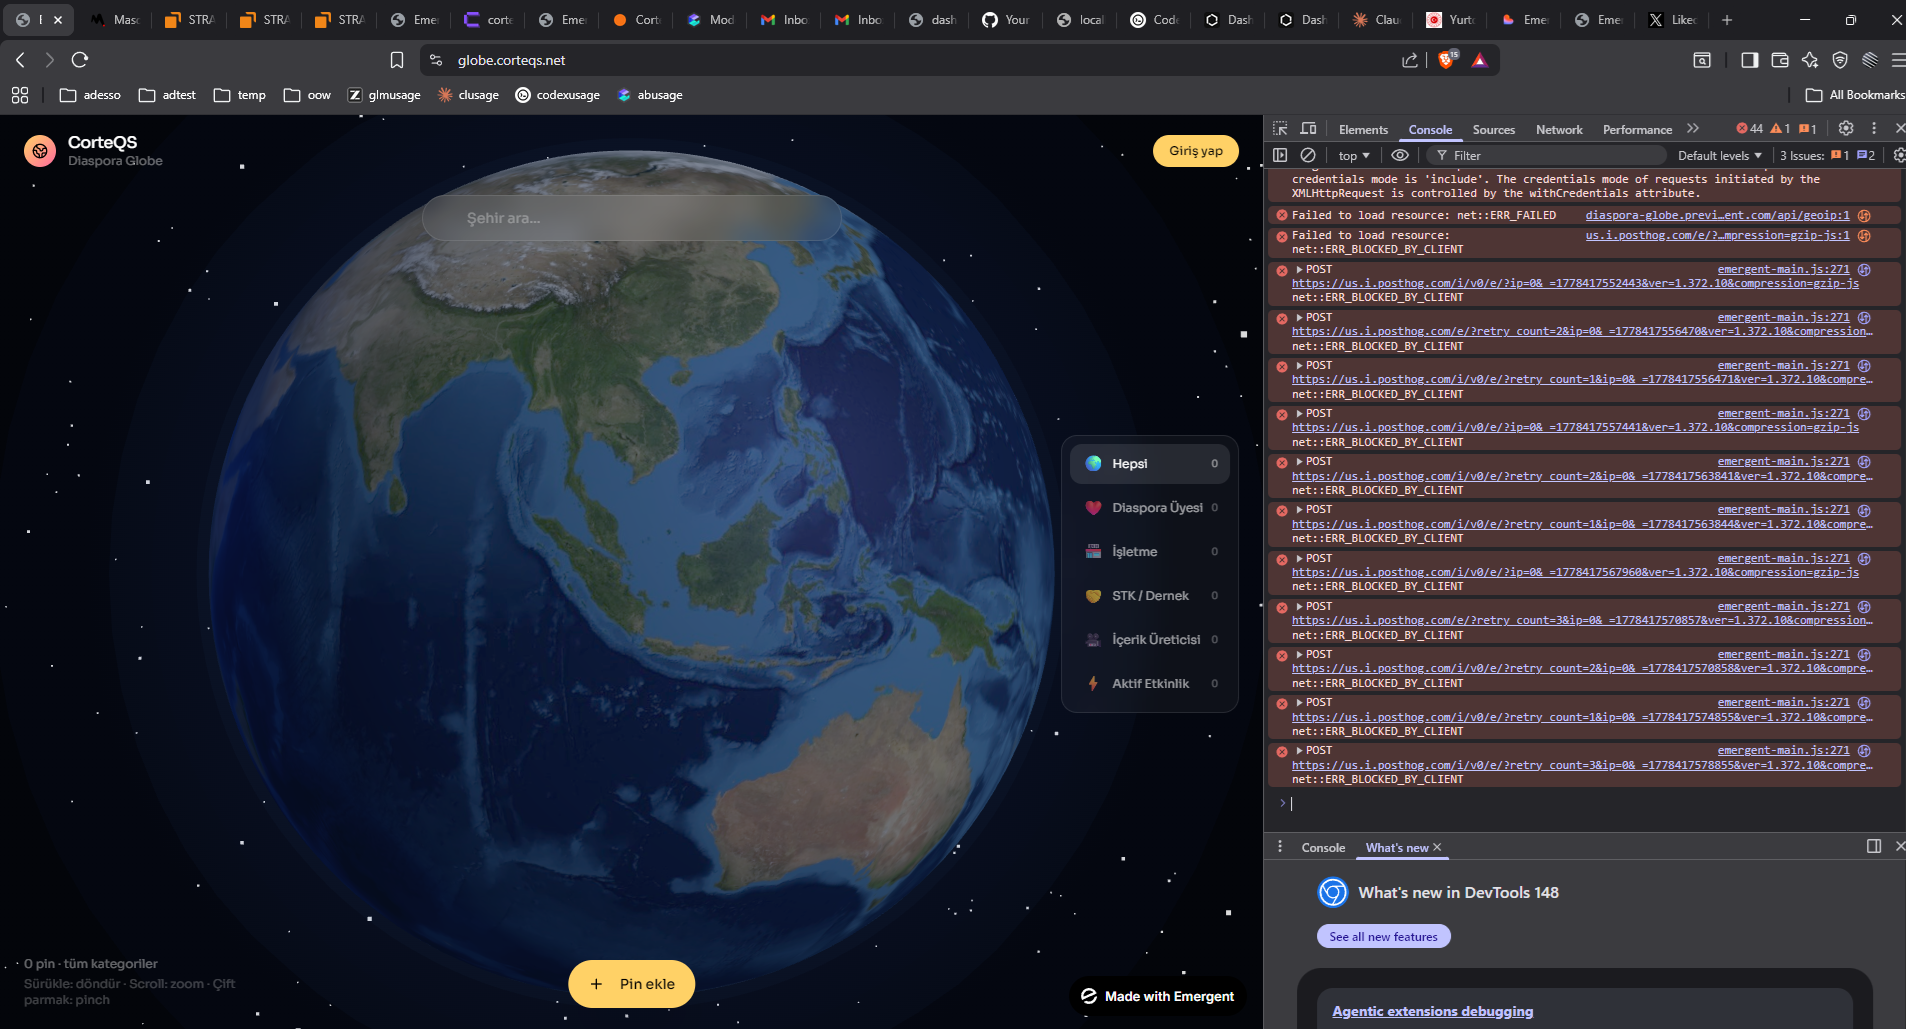
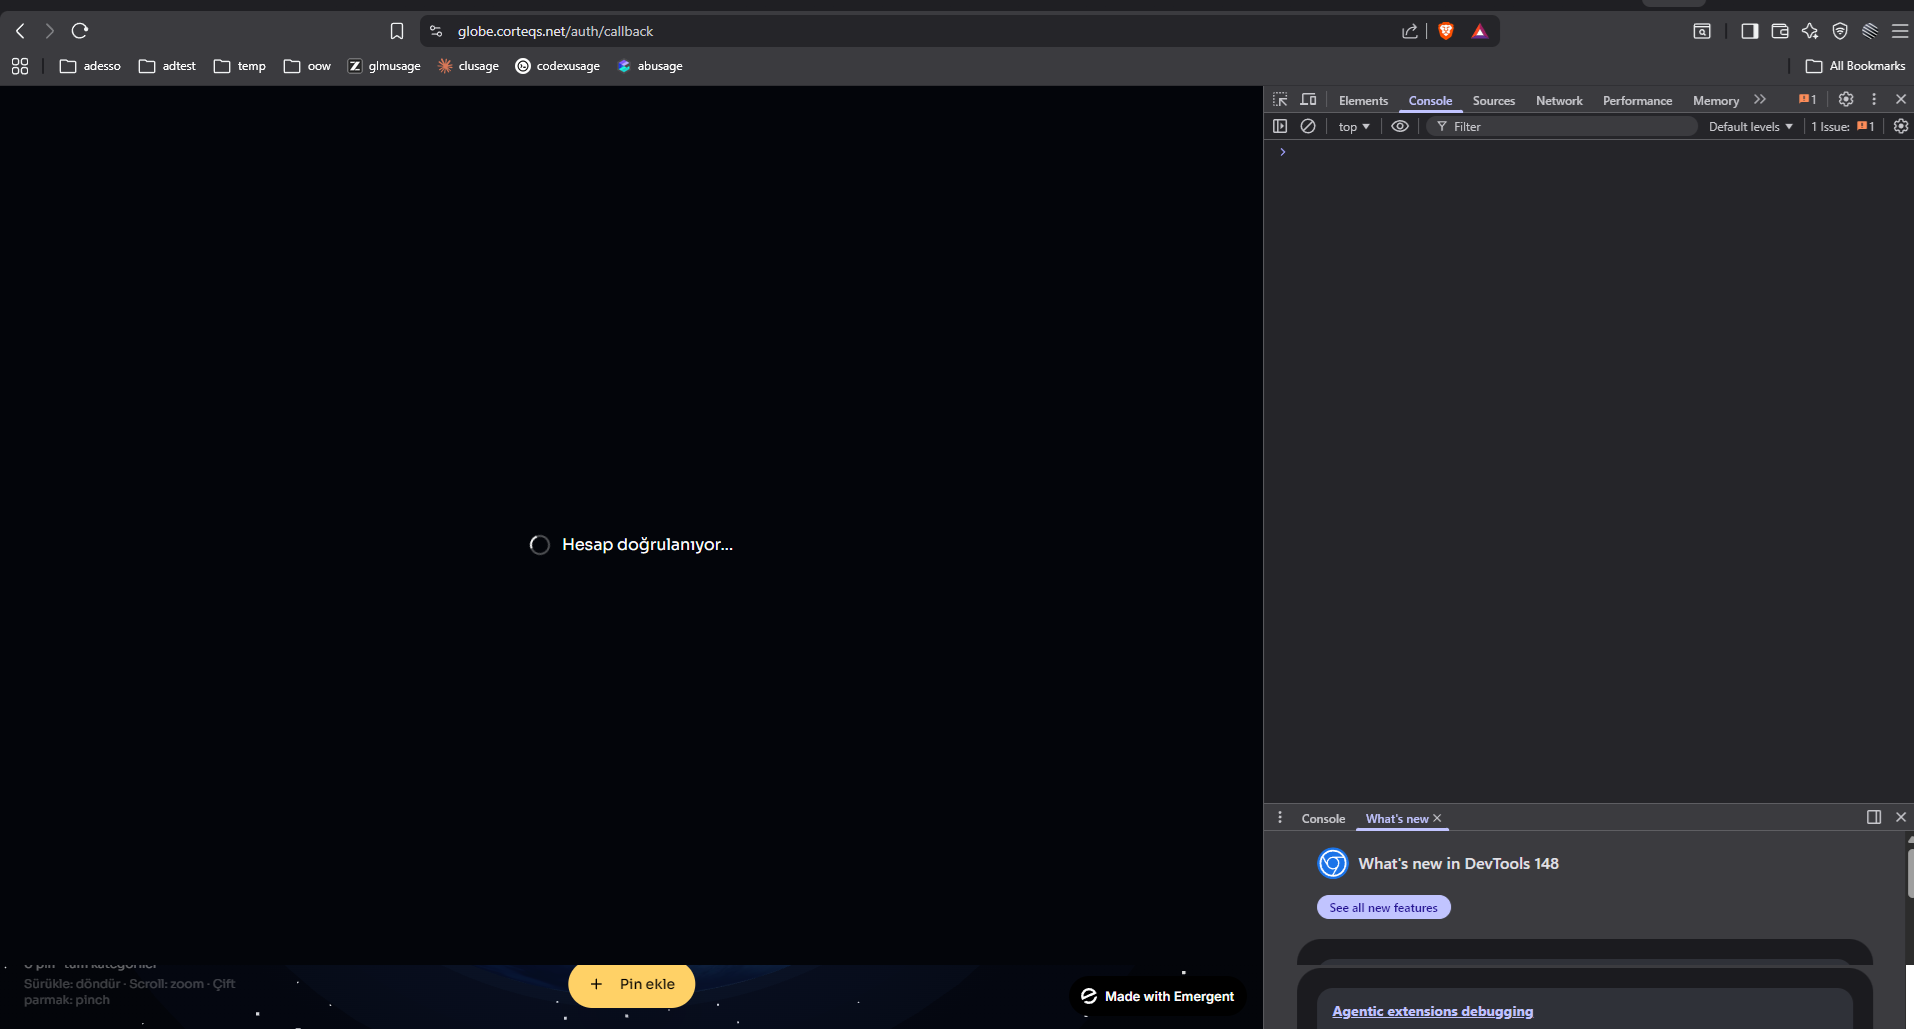
emergent

diff --git a/frontend/src/components/AuthCallback.jsx b/frontend/src/components/AuthCallback.jsx
@@ -1,6 +1,7 @@
 import React, { useEffect, useRef, useState } from "react";
 import { useNavigate } from "react-router-dom";
 import { useAuth } from "@/contexts/AuthContext";
+import { supabase } from "@/lib/supabase";
 
 export default function AuthCallback() {
   const navigate = useNavigate();
@@ -12,26 +13,67 @@ export default function AuthCallback() {
     if (hasProcessed.current) return;
     hasProcessed.current = true;
 
-    const hash = window.location.hash || "";
+    let timeoutId;
+    let unsubscribe;
 
-    // Supabase OAuth flow: #access_token=... (detectSessionInUrl handles session automatically)
-    if (hash.includes("access_token=")) {
-      (async () => {
-        try {
-          // Give Supabase client a moment to parse the hash and set the session
-          await new Promise((r) => setTimeout(r, 200));
-          window.history.replaceState(null, "", window.location.pathname);
-          await refresh();
-          navigate("/", { replace: true });
-        } catch (e) {
-          setError(e?.message || "Auth failed");
-        }
-      })();
+    const finish = async () => {
+      try {
+        // Clean URL (remove hash and query params)
+        window.history.replaceState(null, "", window.location.pathname);
+        await refresh();
+        navigate("/", { replace: true });
+      } catch (e) {
+        setError(e?.message || "Auth failed");
+      }
+    };
+
+    // Strategy: wait for Supabase to detect session from URL
+    // - Implicit flow: #access_token=... (detectSessionInUrl: true handles automatically)
+    // - PKCE flow: ?code=... (Supabase exchanges automatically)
+    // Both fire onAuthStateChange when done.
+    const url = window.location.href;
+    const hasOAuthParams =
+      window.location.hash.includes("access_token=") ||
+      window.location.search.includes("code=") ||
+      window.location.hash.includes("error=") ||
+      window.location.search.includes("error=");
+
+    if (!hasOAuthParams) {
+      // No OAuth params — go home
+      navigate("/", { replace: true });
       return;
     }
 
-    // No recognized token — go home
-    navigate("/", { replace: true });
+    // Subscribe to auth state changes; finish when session is established
+    const { data } = supabase.auth.onAuthStateChange((event, session) => {
+      if (event === "SIGNED_IN" || (session && event === "TOKEN_REFRESHED")) {
+        if (timeoutId) clearTimeout(timeoutId);
+        unsubscribe?.();
+        finish();
+      }
+    });
+    unsubscribe = () => data?.subscription?.unsubscribe?.();
+
+    // Fallback: check immediately in case session is already set
+    (async () => {
+      const { data: { session } } = await supabase.auth.getSession();
+      if (session) {
+        if (timeoutId) clearTimeout(timeoutId);
+        unsubscribe?.();
+        finish();
+      }
+    })();
+
+    // Hard timeout after 8 seconds — show error if still no session
+    timeoutId = setTimeout(() => {
+      unsubscribe?.();
+      setError("Oturum kurulamadı (timeout). Lütfen tekrar deneyin.");
+    }, 8000);
+
+    return () => {
+      if (timeoutId) clearTimeout(timeoutId);
+      unsubscribe?.();
+    };
     // eslint-disable-next-line react-hooks/exhaustive-deps
   }, []);
 